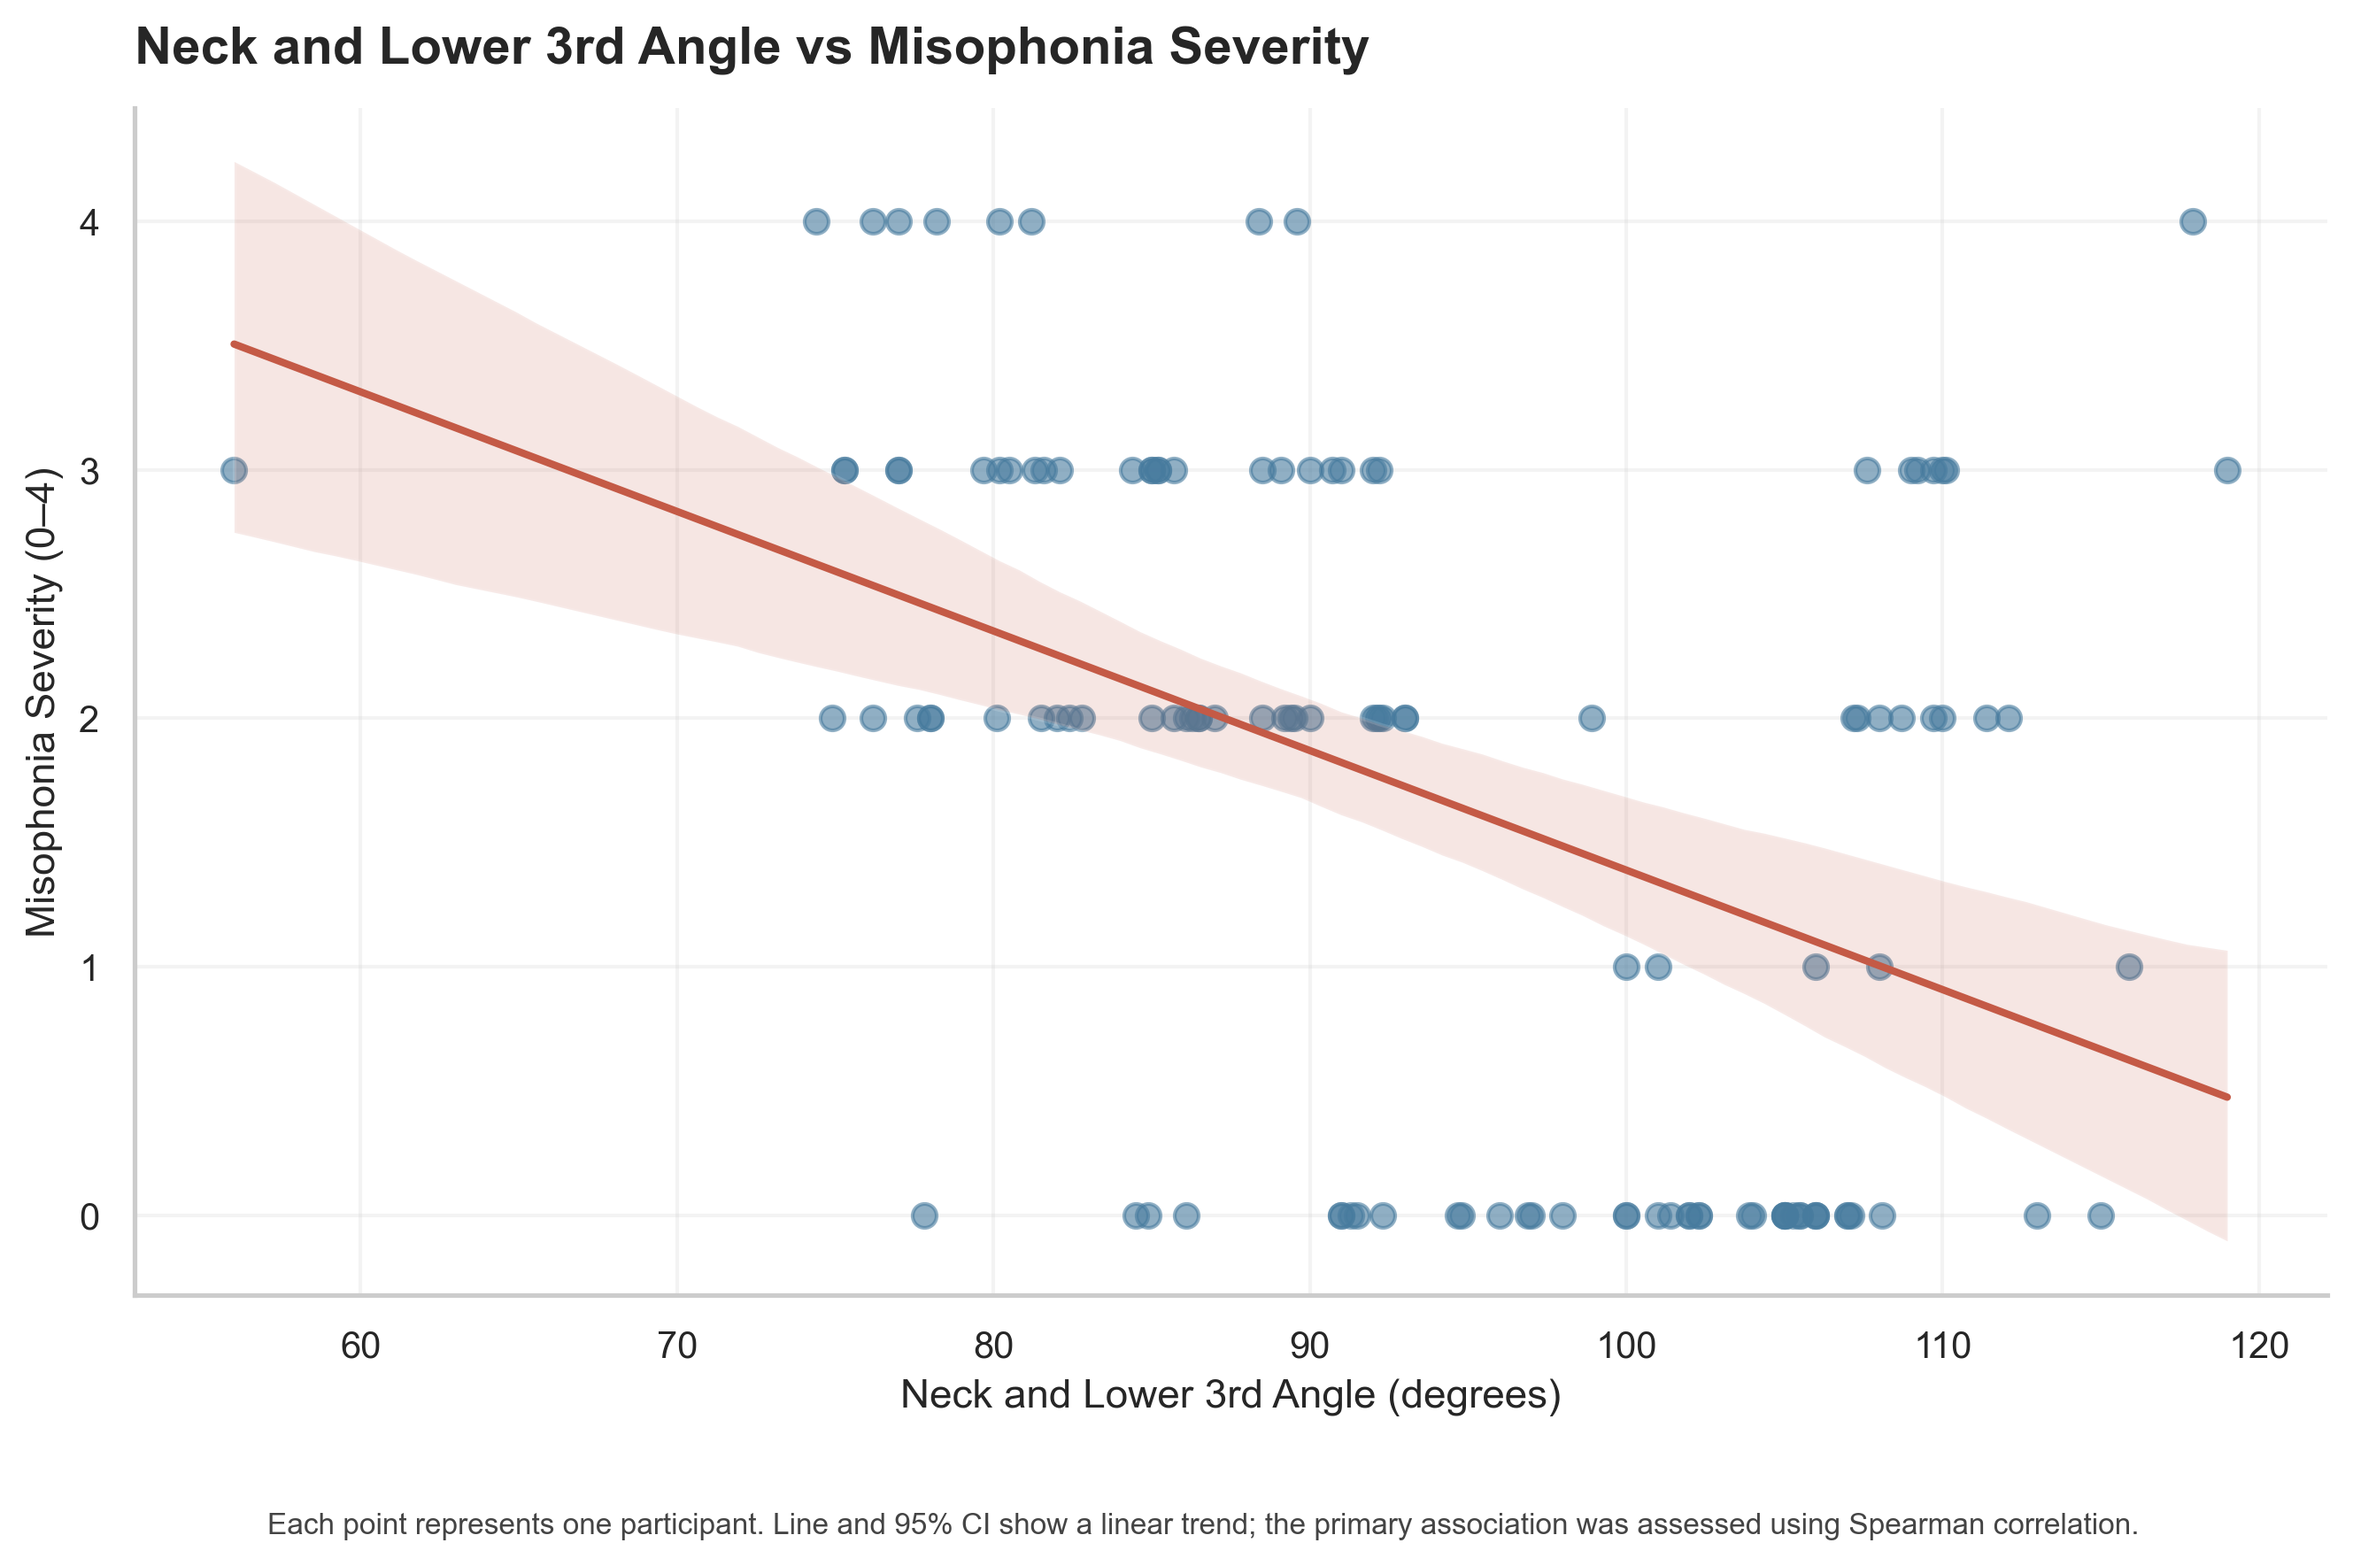
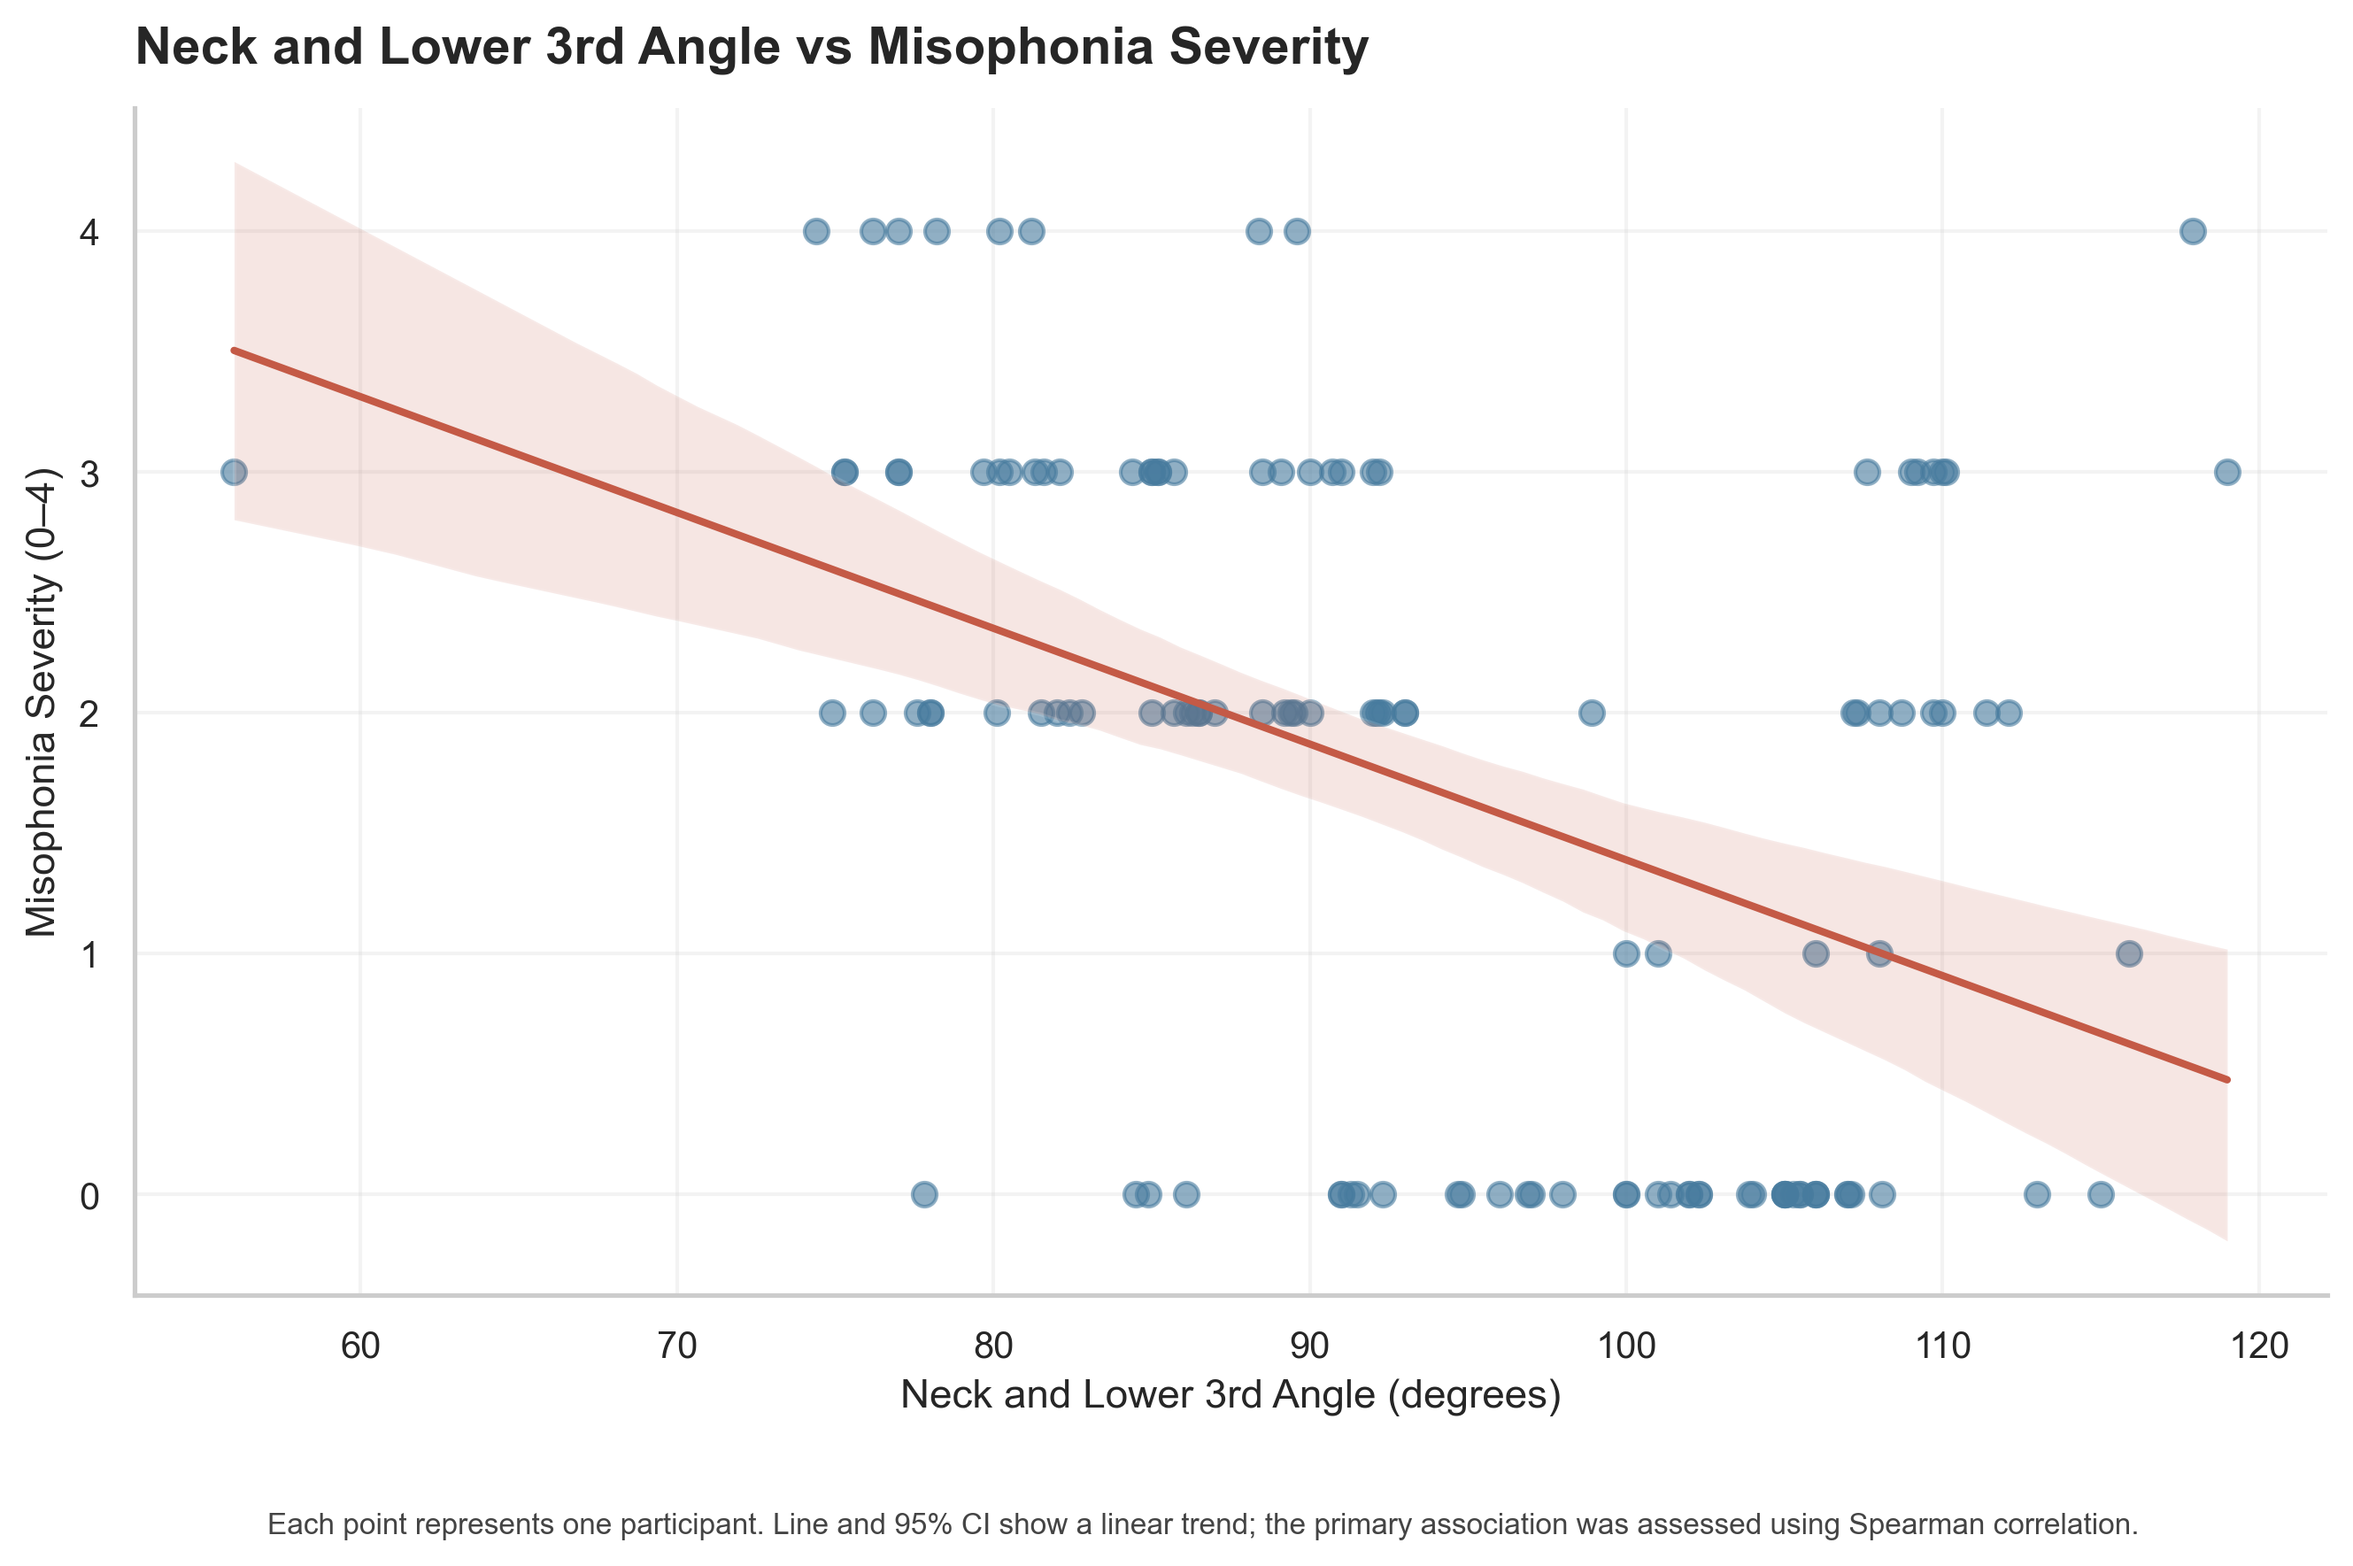
Update visualization and documentation

diff --git a/README.md b/README.md
@@ -30,7 +30,7 @@ Misophonia severity is analysed on an ordinal scale from 0 to 4. A separate expl
 - Data loading and preparation using pandas
 - Spearman rank correlations between anatomical measurements and misophonia severity
 - Holm correction for multiple statistical tests
-- Boxplots with individual observations
+- Scatter plot with a fitted linear trend and 95% confidence interval
 - Exploratory comparison of misophonia prevalence across five quantile groups of Convexity Angle
 
 ## Key findings
@@ -56,9 +56,9 @@ Compares the direction and magnitude of the correlations for all four anatomical
 
 ![Spearman correlations](figures/spearman_correlations.png)
 
-### 2. Neck and Lower 3rd Angle by misophonia severity
+### 2. Neck and Lower 3rd Angle vs misophonia severity
 
-Shows the distribution of the measurement across severity levels 0–4, including individual observations.
+Each point represents one participant. The fitted line and 95% confidence interval illustrate the linear trend between Neck and Lower 3rd Angle and self-reported misophonia severity. The primary statistical analysis uses Spearman rank correlation; the fitted line is for visual interpretation only.
 
 ![Neck and Lower 3rd Angle by severity](figures/angle_by_severity.png)
 
